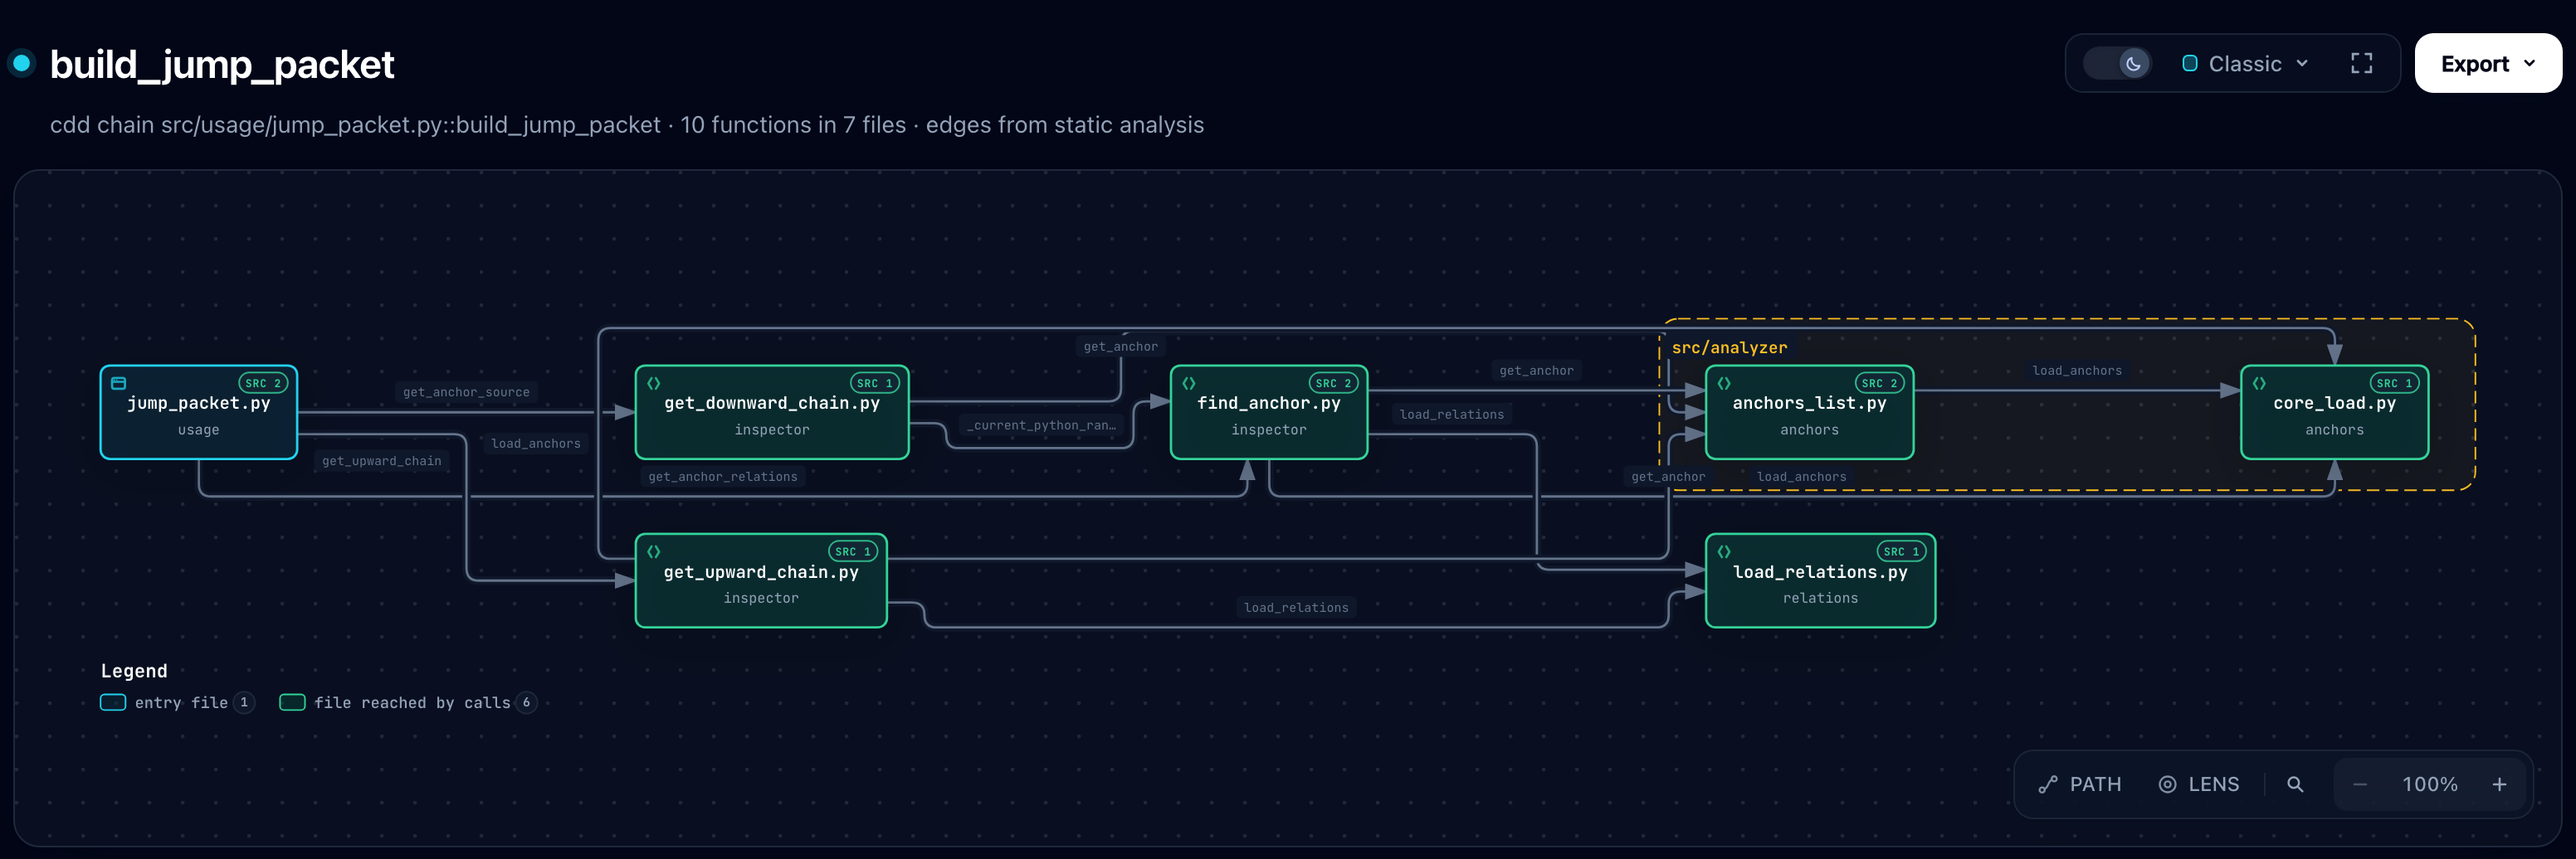
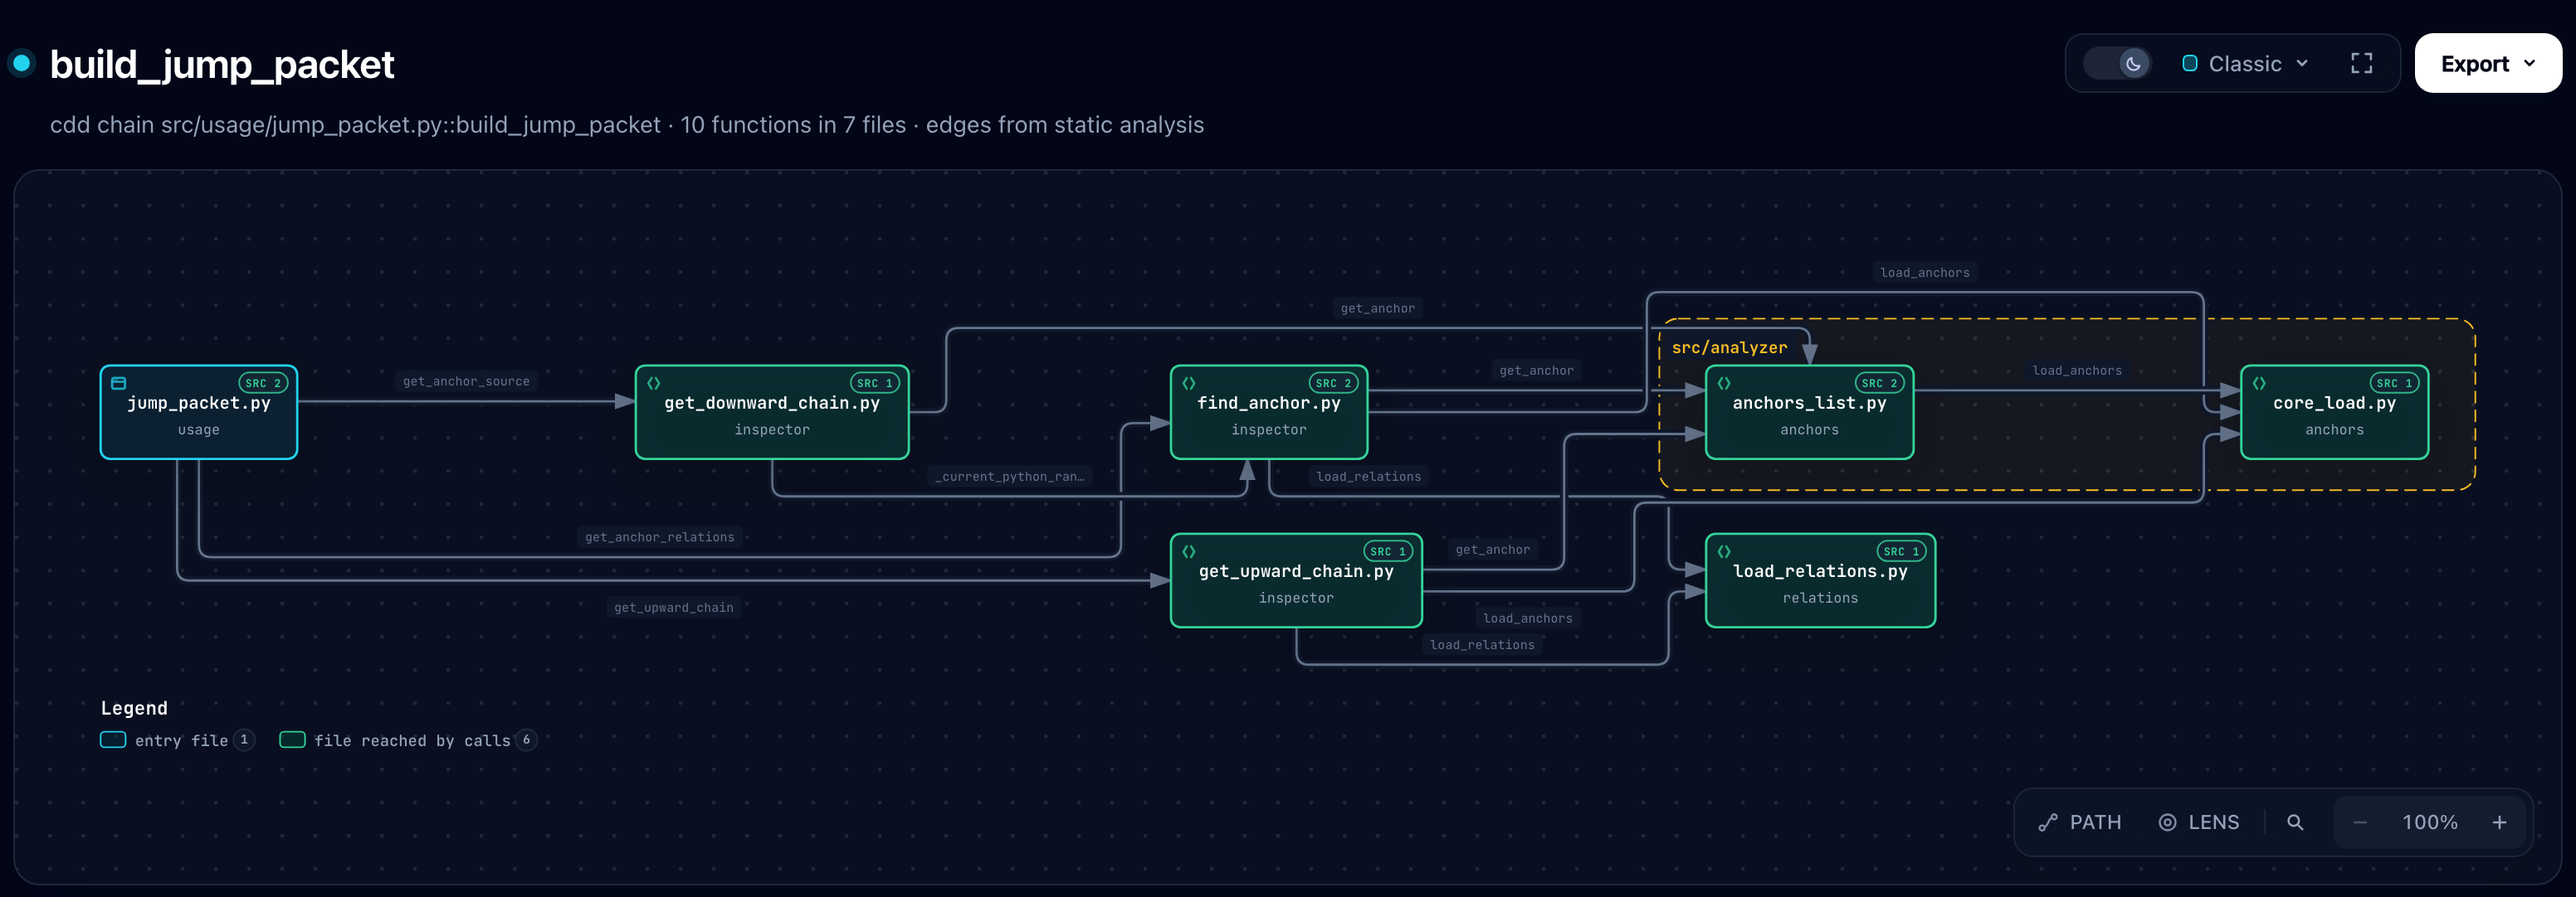
fix(cdd): cdd archify checks that every line can be read, not only that archify accepts it
archify's checks passed on the README diagram while two edges ran 351px
along the same corridor (one line to the eye) and three labels sat
between two lines with no telling whose they were. archify validates
layout legality; it cannot know whether a reader will mistake one edge
for another.

archify_repair reads the routes and label boxes from `archify validate
--layout-json` and reports: a label more than 14px from its own route,
or not at least 6px nearer its own route than another, or within 8px of
another route; two different edges sharing more than 8px of corridor;
an endpoint not on its node's border. polish then tries one change at a
time and keeps it only if archify still accepts the diagram and the
problem count drops: move the label to another segment of its own
route, or move one of the two edges to leave or enter by top/bottom so
archify reroutes it. (Hand-written via routes are tried last: archify
rejects any via route that crosses another line. Left/right sides are
not tried: every edge points right, so they force a loop back.)
What remains is printed as "仍可能认错".

The layout also moves a file with more outgoing than incoming calls to
the column just before its callees, which shortens its edges and frees
the corridor they were sharing.

34 chains from this repo: all delivered; problems 46 -> 3; diagrams with
none 21 -> 32. The README hero is redrawn with this.

diff --git a/src/usage/export/archify_repair.py b/src/usage/export/archify_repair.py
@@ -1,0 +1,181 @@
+"""archify 校验通过 ≠ 读得懂：再查一遍线和标签，查出歧义就改 IR 重排。
+
+archify 的检查管的是版面合法（不穿节点、不出画布），管不到"读的人会不会认错"。实测
+build_jump_packet 那张图全部通过，却有两条边在顶部同一条通道里并了 351px，看上去是一条
+线；一个 load_anchors 标签离自己的线 40px，夹在两条线中间认不出是谁的。
+
+这里读 ``archify validate --layout-json`` 给出的实际走线和标签框，查三件事：
+
+- 标签离自己的线太远，或者离别的线比离自己的近 → 用 ``labelSegment`` 把它钉到自己
+  更长的一段上（按段长从长到短轮着试）
+- 两条不同的边共用一段通道 → 先换其中一条的出入侧（fromSide / toSide），让 archify 自己
+  另找通道；不行再用 ``via`` 把那段挪开 14 / 28px（手写的 via 一和别的线交叉就不合法，
+  所以排在后面）
+- 线的端点没落在两头节点的边框上
+
+改法一次只试一个，交给 archify 校验：它接受、并且问题确实变少，才留下。一次改两处的
+做法试过——一处改坏就整轮作废，剩下的备选再也轮不到。
+"""
+import json
+import math
+
+LABEL_GAP = 14       # 标签框离自己的线超过这个距离，就认不出是谁的（archify 默认放在约 10px 处）
+LABEL_MARGIN = 6     # 离别的线不比离自己的远出这么多，两条线就分不清
+CROWD_GAP = 8        # 别的线离标签框不到这个距离，就算压在自己线上也分不清
+SHARED_MIN = 8       # 两条边共线超过这个长度，就看成一条线
+SHIFT = 14
+
+
+def _seg_rect_gap(a, b, r):
+    """轴向线段到矩形的最短距离（相交为 0）。"""
+    (x1, y1), (x2, y2) = a, b
+    lx, rx, ty, by = r["x"], r["x"] + r["width"], r["y"], r["y"] + r["height"]
+    dx = max(lx - max(x1, x2), 0, min(x1, x2) - rx)
+    dy = max(ty - max(y1, y2), 0, min(y1, y2) - by)
+    return math.hypot(dx, dy)
+
+
+def _route_rect_gap(points, rect):
+    return min(_seg_rect_gap(points[i], points[i + 1], rect) for i in range(len(points) - 1))
+
+
+def _shared(a, b):
+    (ax1, ay1), (ax2, ay2) = a
+    (bx1, by1), (bx2, by2) = b
+    if ay1 == ay2 and by1 == by2 and abs(ay1 - by1) <= 3:
+        return max(0, min(max(ax1, ax2), max(bx1, bx2)) - max(min(ax1, ax2), min(bx1, bx2)))
+    if ax1 == ax2 and bx1 == bx2 and abs(ax1 - bx1) <= 3:
+        return max(0, min(max(ay1, ay2), max(by1, by2)) - max(min(ay1, ay2), min(by1, by2)))
+    return 0
+
+
+def _on_border(pt, r, tol=2.5):
+    x, y = pt
+    in_x = r["x"] - tol <= x <= r["x"] + r["width"] + tol
+    in_y = r["y"] - tol <= y <= r["y"] + r["height"] + tol
+    return (in_y and min(abs(x - r["x"]), abs(x - r["x"] - r["width"])) <= tol) or \
+           (in_x and min(abs(y - r["y"]), abs(y - r["y"] - r["height"])) <= tol)
+
+
+def audit(layout):
+    """返回 [(种类, 连接下标, 细节)]：label / shared / endpoint。"""
+    comps = {c["id"]: c for c in layout["components"]}
+    conns = layout["connections"]
+    problems = []
+    for i, c in enumerate(conns):
+        pts = c["points"]
+        if not (_on_border(pts[0], comps[c["from"]]) and _on_border(pts[-1], comps[c["to"]])):
+            problems.append(("endpoint", i, {}))
+    # 标签和连接按 labelAt 对上：同名标签（三个 get_anchor）不能按文字对
+    for i, c in enumerate(conns):
+        lab = next((l for l in layout.get("labels", []) if l.get("labelAt") == c.get("labelAt")
+                    and l.get("text") == c.get("label")), None)
+        if lab is None:
+            continue
+        own = _route_rect_gap(c["points"], lab)
+        other = min((_route_rect_gap(o["points"], lab) for j, o in enumerate(conns) if j != i), default=math.inf)
+        if own > LABEL_GAP or other < own + LABEL_MARGIN or other < CROWD_GAP:
+            problems.append(("label", i, {"own": round(own, 1), "other": round(other, 1)}))
+    for i, c in enumerate(conns):
+        for j in range(i + 1, len(conns)):
+            o = conns[j]
+            for k in range(len(o["points"]) - 1):
+                length = sum(_shared(c["points"][m:m + 2], o["points"][k:k + 2]) for m in range(len(c["points"]) - 1))
+                if length > SHARED_MIN:
+                    problems.append(("shared", j, {"with": i, "segment": k, "length": round(length)}))
+    return problems
+
+
+def _segments_by_length(points):
+    lengths = [abs(points[i + 1][0] - points[i][0]) + abs(points[i + 1][1] - points[i][1]) for i in range(len(points) - 1)]
+    return sorted(range(len(lengths)), key=lambda i: -lengths[i])
+
+
+def _shifted_via(points, k, delta):
+    """把第 k 段（两头都在路线中间）平移 delta，返回新的 via（去掉首尾端点）。"""
+    if k < 1 or k + 1 > len(points) - 2:
+        return None
+    pts = [list(p) for p in points]
+    axis = 1 if pts[k][1] == pts[k + 1][1] else 0
+    pts[k][axis] += delta
+    pts[k + 1][axis] += delta
+    return [[round(x, 1), round(y, 1)] for x, y in pts[1:-1]]
+
+
+# 只换上下：布局里边都从左指向右，让它从左边出、或者从右边进，线就得往回绕一圈
+_SIDE_MOVES = (("fromSide", "bottom"), ("toSide", "bottom"), ("fromSide", "top"), ("toSide", "top"))
+
+
+def _candidates(problem, layout):
+    """一个问题的备选改法，每个是 {连接下标: {字段: 值}}，按改动从小到大排。"""
+    kind, i, info = problem
+    conns = layout["connections"]
+    if kind == "label":
+        moves = [{i: {"labelSegment": seg}} for seg in _segments_by_length(conns[i]["points"])]
+        return moves + [{i: {side: value}} for side, value in _SIDE_MOVES]
+    if kind == "shared":
+        # 先换出入侧：走线仍由 archify 自动排，允许带白边的交叉；手写 via 的线一交叉就不合法
+        out = [{target: {side: value}} for target in (i, info["with"]) for side, value in _SIDE_MOVES]
+        for target in (i, info["with"]):
+            pts = conns[target]["points"]
+            for k in range(len(pts) - 1):
+                if sum(_shared(pts[k:k + 2], conns[o]["points"][m:m + 2])
+                       for o in (i, info["with"]) if o != target
+                       for m in range(len(conns[o]["points"]) - 1)) <= SHARED_MIN:
+                    continue
+                for delta in (SHIFT, -SHIFT, 2 * SHIFT, -2 * SHIFT):
+                    via = _shifted_via(pts, k, delta)
+                    if via:
+                        out.append({target: {"via": via, "route": None}})
+        return out
+    return []
+
+
+def _apply(ir, change):
+    trial = json.loads(json.dumps(ir))
+    for idx, fields in change.items():
+        for key, value in fields.items():
+            if value is None:
+                trial["connections"][idx].pop(key, None)
+            else:
+                trial["connections"][idx][key] = value
+    return trial
+
+
+def polish(ir, validate, max_tries=40):
+    """一次只试一个改动，archify 接受且问题变少才留下。validate(ir) 返回 layout 或 None。
+    返回 (改好的 ir, 还剩的问题描述)。"""
+    layout = validate(ir)
+    if layout is None:
+        return ir, []
+    problems, tries = audit(layout), 0
+    while problems and tries < max_tries:
+        accepted = False
+        for problem in problems:
+            for change in _candidates(problem, layout):
+                tries += 1
+                trial = _apply(ir, change)
+                trial_layout = validate(trial)
+                if trial_layout is not None:
+                    trial_problems = audit(trial_layout)
+                    if len(trial_problems) < len(problems):
+                        ir, layout, problems, accepted = trial, trial_layout, trial_problems, True
+                        break
+                if tries >= max_tries:
+                    break
+            if accepted or tries >= max_tries:
+                break
+        if not accepted:
+            break
+    return ir, [describe(p, layout) for p in problems]
+
+
+def describe(problem, layout):
+    kind, i, info = problem
+    c = layout["connections"][i]
+    name = "{} → {}（{}）".format(c["from"], c["to"], c.get("label", ""))
+    if kind == "label":
+        return "标签离自己的线 {}px，离别的线 {}px：{}".format(info["own"], info["other"], name)
+    if kind == "shared":
+        return "和另一条边并线 {}px：{}".format(info["length"], name)
+    return "端点没落在节点边框上：" + name

diff --git a/src/tests/tests/test_archify_repair_v2_2.py b/src/tests/tests/test_archify_repair_v2_2.py
@@ -1,0 +1,62 @@
+"""archify 合法 ≠ 读得懂：audit 查并线、标签挂错、端点没接上；polish 一次只试一个改法。"""
+from usage.export.archify_repair import audit, polish
+
+
+def _node(nid, x, y, w=100, h=60):
+    return {"id": nid, "x": x, "y": y, "width": w, "height": h}
+
+
+def _layout(conns, labels):
+    comps = [_node("a", 0, 0), _node("b", 400, 0), _node("c", 400, 200)]
+    return {"components": comps, "connections": conns, "labels": labels}
+
+
+def _conn(frm, to, label, pts, at):
+    return {"from": frm, "to": to, "label": label, "points": pts, "labelAt": at}
+
+
+def test_clean_layout_has_no_problems():
+    c = _conn("a", "b", "call", [[100, 30], [400, 30]], [250, 20])
+    lab = {"text": "call", "x": 230, "y": 10, "width": 40, "height": 14, "labelAt": [250, 20]}
+    assert audit(_layout([c], [lab])) == []
+
+
+def test_two_edges_in_one_corridor_are_reported():
+    c1 = _conn("a", "b", "x", [[100, 30], [200, 30], [200, -40], [450, -40], [450, 0]], [300, -50])
+    c2 = _conn("a", "c", "y", [[100, 40], [180, 40], [180, -40], [430, -40], [430, 200]], [300, -50])
+    kinds = {p[0] for p in audit(_layout([c1, c2], []))}
+    assert "shared" in kinds
+
+
+def test_label_closer_to_another_line_is_reported():
+    c1 = _conn("a", "b", "mine", [[100, 30], [400, 30]], [250, 60])
+    c2 = _conn("a", "c", "other", [[100, 50], [250, 50], [250, 230], [400, 230]], [320, 220])
+    lab = {"text": "mine", "x": 230, "y": 52, "width": 40, "height": 14, "labelAt": [250, 60]}
+    problems = audit(_layout([c1, c2], [lab]))
+    assert ("label", 0) in {(p[0], p[1]) for p in problems}
+
+
+def test_detached_endpoint_is_reported():
+    c = _conn("a", "b", "call", [[100, 30], [380, 30]], [250, 20])
+    assert ("endpoint", 0) in {(p[0], p[1]) for p in audit(_layout([c], []))}
+
+
+def test_polish_keeps_only_changes_that_reduce_problems():
+    """validate 是假的：只有第 1 条边改成从底部出线，并线才消失；手写 via 一律不合法。"""
+    shared = [_conn("a", "b", "x", [[100, 30], [200, 30], [200, -40], [450, -40], [450, 0]], [300, -50]),
+              _conn("a", "c", "y", [[100, 40], [180, 40], [180, -40], [430, -40], [430, 200]], [300, -50])]
+    clean = [_conn("a", "b", "x", [[100, 30], [400, 30]], [250, 20]),
+             _conn("a", "c", "y", [[50, 60], [50, 230], [400, 230]], [60, 150])]
+
+    def validate(ir):
+        if any("via" in c for c in ir["connections"]):
+            return None          # 不合法的改法要被撤回
+        ok = ir["connections"][1].get("fromSide") == "bottom"
+        return _layout(clean if ok else shared, [])
+
+    ir = {"connections": [{"from": "a", "to": "b", "label": "x"}, {"from": "a", "to": "c", "label": "y"}]}
+    fixed, remaining = polish(ir, validate)
+    assert remaining == []
+    assert fixed["connections"][1] == {"from": "a", "to": "c", "label": "y", "fromSide": "bottom"}
+    assert fixed["connections"][0] == {"from": "a", "to": "b", "label": "x"}
+    assert "fromSide" not in ir["connections"][1]   # 原 IR 不被就地改坏

diff --git a/src/usage/export/archify.py b/src/usage/export/archify.py
@@ -15,9 +15,11 @@ from pathlib import Path
 
 from analyzer.anchors import load_anchors
 from usage.export.archify_ir import build_architecture_ir
+from usage.export.archify_repair import polish
 from usage.export.archify_repo import (
-    deliver_command, find_archify, find_node, repository_identity, run_deliver,
+    deliver_command, find_archify, find_node, read_layout, repository_identity, run_deliver,
 )
+
 
 INSTALL_HINT = "npx skills add tt-a1i/archify -g"
 
@@ -67,6 +69,23 @@ def _write_ir(anchors, root_id, depth, name, repository, out_dir):
     return ir, stats, ir_path
 
 
+def _polish(ir, ir_path, cli, node, root, with_repo):
+    """archify 合法 ≠ 读得懂：查并线和挂错的标签，一次试一个改法（见 archify_repair）。
+    胜出的那一版写回 ir_path，返回还剩的问题。"""
+    trial_path = ir_path.with_name(ir_path.stem + ".trial.json")
+
+    def validate(candidate):
+        trial_path.write_text(json.dumps(candidate, ensure_ascii=False), encoding="utf-8")
+        return read_layout(cli, node, trial_path, root, with_repo)
+
+    try:
+        best, remaining = polish(ir, validate)
+    finally:
+        trial_path.unlink(missing_ok=True)
+    ir_path.write_text(json.dumps(best, ensure_ascii=False, indent=2), encoding="utf-8")
+    return remaining
+
+
 def _summary(stats):
     return "{} 个函数 · {} 个文件 · {} 条文件间调用".format(stats["functions"], stats["files"], stats["links"])
 
@@ -76,12 +95,15 @@ def _render(anchors, root_id, args, name, repository, out_dir, cli, node, root):
     html_path = out_dir / (name + ".html")
     last = None
     for depth in range(args.depth, 0, -1):
-        _, stats, ir_path = _write_ir(anchors, root_id, depth, name, repository, out_dir)
+        ir, stats, ir_path = _write_ir(anchors, root_id, depth, name, repository, out_dir)
+        remaining = _polish(ir, ir_path, cli, node, root, repository is not None)
         cmd = deliver_command(cli, node, ir_path, html_path, root, repository is not None)
         code, stdout, stderr = run_deliver(cmd)
         if code == 0:
             if depth < args.depth:
                 print("      深度 {} 太大，archify 不接受；实际画到深度 {}（{}）".format(args.depth, depth, _summary(stats)))
+            for line in remaining:
+                print("      仍可能认错：" + line)
             print("      完成：{}".format(html_path))
             return 0
         last = (code, stdout, stderr)

diff --git a/src/usage/export/archify_repo.py b/src/usage/export/archify_repo.py
@@ -4,6 +4,7 @@ archify 用 ``meta.repository``（地址 + 40 位 commit）把节点的 ``source
 字节上，``--repo-root`` 时逐个核对路径和行号。索引是按工作树建的，所以被引用的文件
 有未提交改动时要说出来：那几处行号可能和 commit 里的对不上。
 """
+import json
 import os
 import re
 import shutil
@@ -81,3 +82,17 @@ def run_deliver(cmd):
     """跑 archify deliver。返回 (退出码, stdout, stderr)。"""
     out = subprocess.run(cmd, capture_output=True, text=True, timeout=600)
     return out.returncode, out.stdout, out.stderr
+
+
+def read_layout(cli, node, ir_path, root, with_repo):
+    """``archify validate --layout-json``：实际走线、标签框、节点框。不合法时返回 None。"""
+    cmd = [node or "node", str(cli), "validate", "architecture", str(ir_path),
+           "--layout-json", "--quality", "showcase"]
+    if with_repo:
+        cmd += ["--repo-root", str(root)]
+    out = subprocess.run(cmd, capture_output=True, text=True, timeout=600)
+    try:
+        data = json.loads(out.stdout)
+    except ValueError:
+        return None
+    return data if data.get("ok") and data.get("connections") is not None else None

diff --git a/src/usage/export/archify_layout.py b/src/usage/export/archify_layout.py
@@ -53,14 +53,20 @@ def _columns(files, links):
         if (s, d) not in back:
             preds[d].append(s); succ[s].append(d); indeg[d] += 1
     col = {p: 0 for p in files}
-    ready = [p for p in files if indeg[p] == 0]
+    ready, topo = [p for p in files if indeg[p] == 0], []
     while ready:
         node = ready.pop(0)
+        topo.append(node)
         for d in succ[node]:
             col[d] = min(MAX_COLS - 1, max(col[d], col[node] + 1))
             indeg[d] -= 1
             if indeg[d] == 0:
                 ready.append(d)
+    # 出边比入边多的文件往右挪到它调的文件前一列：get_upward_chain 一条入边、三条出边，
+    # 留在第 1 列时三条长线挤一条通道；挪过去以后总线长变短，通道也空出来
+    for node in reversed(topo[1:]):
+        if succ[node] and len(succ[node]) > len(preds[node]):
+            col[node] = max(col[node], min(col[d] for d in succ[node]) - 1)
     return col, preds
 
 
